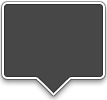
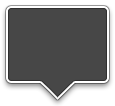
Edit

Changed region(s): [[0.0, 0.0, 1.0, 0.99]]

diff --git a/MyStyledView.m b/MyStyledView.m
@@ -21,8 +21,6 @@
 @synthesize backgroundImage;
 @synthesize inactiveBackgroundImage;
 @synthesize contentStretch;
-@synthesize backgroundImages;
-@synthesize inactiveBackgroundImages;
 @synthesize topEdgeColor;
 @synthesize topHighlightColor;
 @synthesize bottomHighlightColor;
@@ -32,14 +30,6 @@
 @synthesize innerShadow;
 @synthesize innerGlow;
 
-//- (id)initWithFrame:(NSRect)frame {
-//	
-//    self = [super initWithFrame:frame];
-//    if (self) {
-//    }
-//    return self;
-//}
-
 - (void)dealloc {
 	
 	self.gradient = nil;
@@ -48,8 +38,6 @@
 	self.inactiveBackgroundColor = nil;
 	self.backgroundImage = nil;
 	self.inactiveBackgroundImage = nil;
-	self.backgroundImages = nil;
-	self.inactiveBackgroundImages = nil;
 	self.topEdgeColor = nil;
 	self.topHighlightColor = nil;
 	self.bottomHighlightColor = nil;
@@ -72,33 +60,10 @@
 		NSRectFill(rect);
 	}
 	
-	NSGradient *gradientToDraw = isKeyWindow ? self.gradient : self.inactiveGradient ? : self.gradient; //hrm
+	NSGradient *gradientToDraw = isKeyWindow ? self.gradient : self.inactiveGradient ? : self.gradient;
 	if (gradientToDraw) {
 		[gradientToDraw drawInRect:rect angle:self.gradientAngle ? : self.isFlipped ? 90 : -90];
 	}
-	
-//	NSArray *backgroundImagesToDraw =  isKeyWindow ? self.backgroundImages : self.inactiveBackgroundImages ? : self.backgroundImages;
-//	if (backgroundImagesToDraw.count == 3) {
-//		
-//		__block BOOL shouldDrawThreePartImage = NO;
-//		[self.backgroundImages enumerateObjectsUsingBlock:^(id obj, NSUInteger idx, BOOL *stop) {
-//			if ([obj isKindOfClass:[NSImage class]]) {
-//				shouldDrawThreePartImage = YES;
-//			} else {
-//				shouldDrawThreePartImage = NO;
-//				*stop = YES;
-//			}
-//			
-//		}];
-//		
-//		if (shouldDrawThreePartImage) {			
-//			NSImage *leftCap = [self.backgroundImages objectAtIndex:0];
-//			NSImage *middleFill = [self.backgroundImages objectAtIndex:1];
-//			NSImage *rightCap = [self.backgroundImages objectAtIndex:2];			
-//			NSDrawThreePartImage(rect, leftCap, middleFill, rightCap, 
-//								 NO, NSCompositeSourceOver, 1.0, self.isFlipped);	
-//		}
-//	}
 	
 	NSImage *backgroundImageToDraw = isKeyWindow ? self.backgroundImage : self.inactiveBackgroundImage ? : self.backgroundImage;
 	if (backgroundImageToDraw) {		

diff --git a/NSImage+Additions.m b/NSImage+Additions.m
@@ -31,7 +31,6 @@
 	CGFloat rightSliceAdjustedOriginX = NSMinX(contentStretch) + middleFillWidth;
 	CGFloat rightSliceWidth = self.size.width - rightSliceSourceOriginX;
 	
-	//--
 	NSRect bottomLeftCornerRect = NSMakeRect(0.0, 0.0, contentStretch.origin.x, contentStretch.origin.y);
 	[self drawInRect:bottomLeftCornerRect fromRect:bottomLeftCornerRect operation:NSCompositeSourceOver fraction:1.0];
 	
@@ -61,11 +60,17 @@
 	
 	NSRect bottomEdgeFillSourceRect = NSMakeRect(contentStretch.origin.x, 0.0, contentStretch.size.width, contentStretch.origin.y);
 	NSRect bottomEdgeFillDrawingRect = NSMakeRect(contentStretch.origin.x, 0.0, middleFillWidth, contentStretch.origin.y);
-	[self drawInRect:bottomEdgeFillDrawingRect fromRect:bottomEdgeFillSourceRect operation:NSCompositeSourceOver fraction:1.00];
+	[self drawInRect:bottomEdgeFillDrawingRect fromRect:bottomEdgeFillSourceRect operation:NSCompositeSourceOver fraction:1.0];
 	
 	NSRect rectToStretch = contentStretch;
 	NSRect stretchedRectToDraw = NSMakeRect(rectToStretch.origin.x, rectToStretch.origin.y, middleFillWidth, middleFillHeight);
 	[self drawInRect:stretchedRectToDraw fromRect:rectToStretch operation:NSCompositeSourceOver fraction:1.0];
+}
+
+- (void)drawInRect:(NSRect)rect leftCap:(CGFloat)leftCap topCap:(CGFloat)topCap {
+	
+	NSRect contentStretchRect = NSMakeRect(leftCap, rect.size.height - topCap, 0.0, 0.0);
+	[self drawInRect:rect contentStretch:contentStretchRect];
 }
 
 @end

diff --git a/MyStyledView.h b/MyStyledView.h
@@ -20,10 +20,7 @@
 
 @property (nonatomic, retain) NSImage		*backgroundImage;
 @property (nonatomic, retain) NSImage		*inactiveBackgroundImage;
-@property (nonatomic, assign) NSRect		contentStretch; // applied to backgroundImage
-
-@property (nonatomic, copy)	  NSArray		*backgroundImages; //three part image. (leftCap, middleFill, rightCap)
-@property (nonatomic, copy)	  NSArray		*inactiveBackgroundImages; //three part image. (leftCap, middleFill, rightCap)
+@property (nonatomic, assign) NSRect		contentStretch;
 
 @property (nonatomic, retain) NSColor		*topEdgeColor;
 @property (nonatomic, retain) NSColor		*topHighlightColor;

diff --git a/MyWindowController.m b/MyWindowController.m
@@ -39,7 +39,7 @@
 	self.background.bottomEdgeColor = [NSColor colorWithCalibratedWhite:0.27 alpha:1.0];
 	
 	self.popUpThing.backgroundImage = [NSImage imageNamed:@"dark_popup.png"];
-	self.popUpThing.contentStretch = NSMakeRect(75.0, 50.0, 1.0, 1.0);
+	self.popUpThing.contentStretch = NSMakeRect(80.0, 50.0, 1.0, 1.0);
 	
 	//--
 	self.toolBar.gradient = [NSGradient gradientWithStartingColor:[NSColor colorWithCalibratedHue:0.625 saturation:0.0 brightness:0.7 alpha:1.0] 

diff --git a/NSImage+Additions.h b/NSImage+Additions.h
@@ -12,5 +12,6 @@
 @interface NSImage (Additions)
 
 - (void)drawInRect:(NSRect)rect contentStretch:(NSRect)contentStretch;
+- (void)drawInRect:(NSRect)rect leftCap:(CGFloat)leftCap topCap:(CGFloat)topCap;
 
 @end
